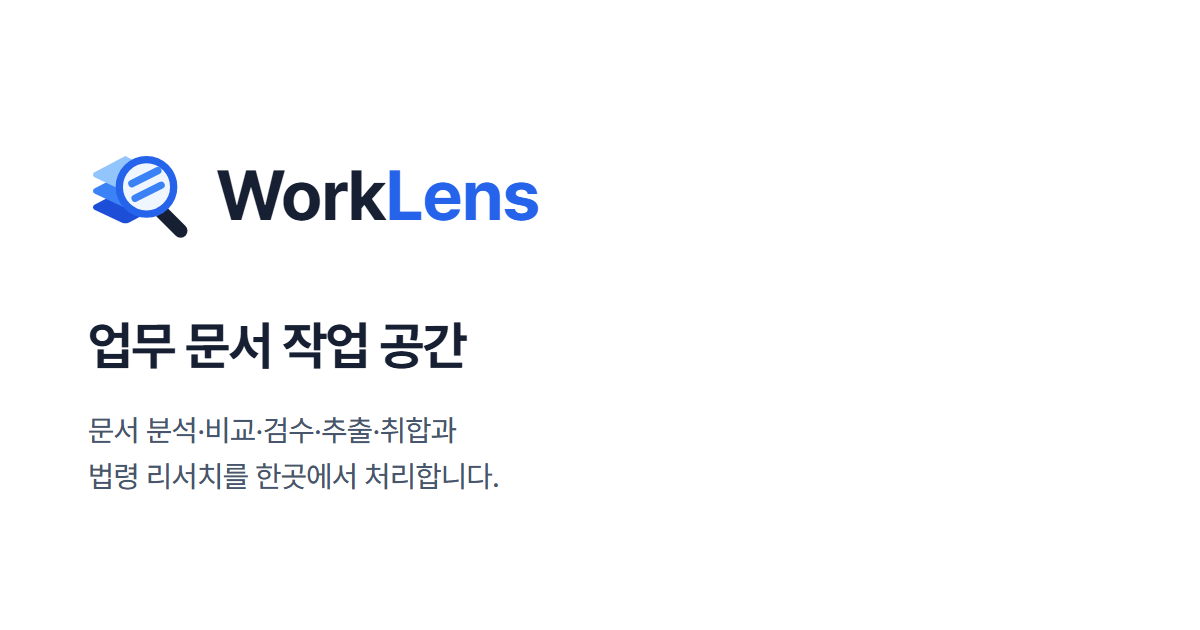
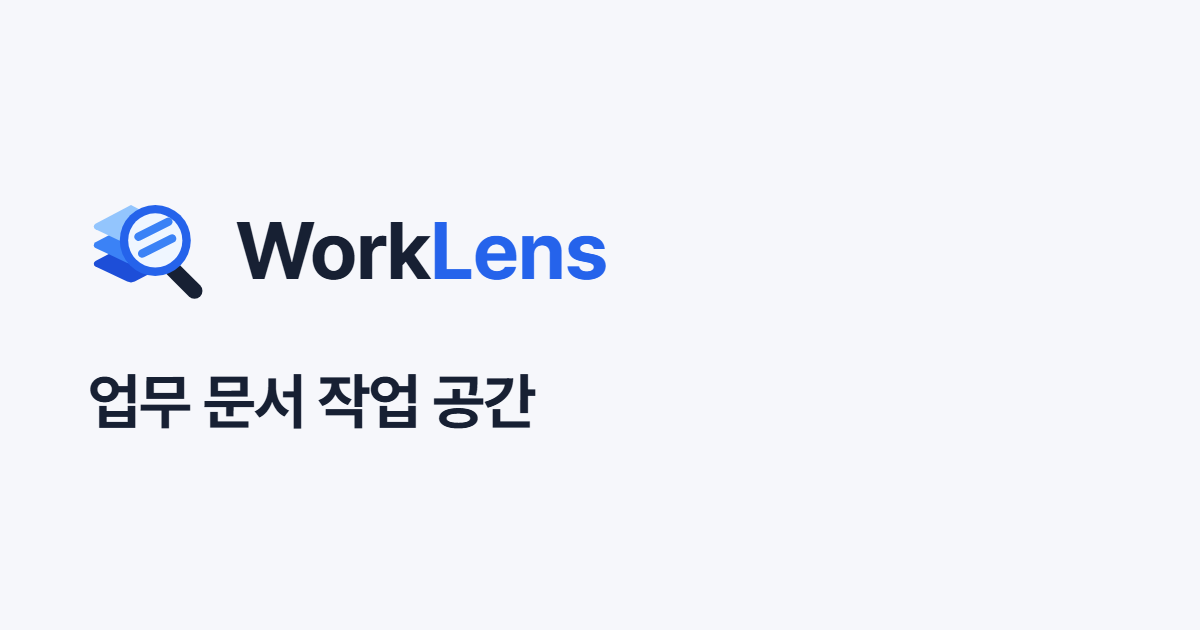
Refine shared OG composition and analysis guide navigation hierarchy

Changed region(s): [[0.0617, 0.5127, 0.4625, 0.7841], [0.0617, 0.2413, 0.5242, 0.4825]]

diff --git a/scripts/generate-brand-assets.ts b/scripts/generate-brand-assets.ts
@@ -12,7 +12,6 @@ const appDirectory = path.join(root, "src", "app");
 const fontDirectory = path.join(root, "public", "fonts", "pretendard", "woff2-dynamic-subset");
 const navy = "#172033";
 const blue = "#2563eb";
-const description = "문서 분석·비교·검수·추출·취합과 법령 리서치를 한곳에서 처리합니다.";
 
 // The JSX component remains the sole source of truth for the full-size symbol.
 function fullMark(tone: "default" | "light" = "default") {
@@ -121,20 +120,19 @@ try {
   }
   await Bun.write(path.join(appDirectory, "favicon.ico"), icoFromPngs(iconPngs));
 
-  const ogFonts = await embeddedFontFaces(`WorkLens업무 문서 작업 공간${description}`);
+  const ogFonts = await embeddedFontFaces("WorkLens업무 문서 작업 공간");
   const page = await browser.newPage({ viewport: { width: 1200, height: 630 }, deviceScaleFactor: 1 });
   const html = `<!DOCTYPE html><html lang="ko"><head><meta charset="utf-8"><style>
     ${ogFonts}
-    *{box-sizing:border-box}html,body{margin:0;width:1200px;height:630px;background:#fff;color:${navy}}
+    *{box-sizing:border-box}html,body{margin:0;width:1200px;height:630px;background:#f6f7fb;color:${navy}}
     body{font-family:"Pretendard Brand",sans-serif;-webkit-font-smoothing:antialiased}
     .sheet{position:relative;width:1200px;height:630px}
-    .brand{position:absolute;left:88px;top:143px;display:flex;align-items:center;gap:24px;height:104px}
+    .brand{position:absolute;left:88px;top:190px;display:flex;align-items:center;gap:24px;height:104px;transform:scale(1.15);transform-origin:top left}
     .brand svg{width:104px;height:104px;flex:none}
     .brand-name{font-size:70px;font-weight:700;letter-spacing:-1.05px;line-height:1}
     .brand-name span{color:${blue}}
-    h1{position:absolute;left:88px;top:313px;margin:0;font-size:52px;letter-spacing:-1.6px;line-height:1.25;font-weight:700}
-    .description{position:absolute;left:88px;top:408px;font-size:30px;line-height:1.52;font-weight:450;letter-spacing:-.4px;color:#48566d}
-  </style></head><body><main class="sheet"><div class="brand">${symbolSvg(full, 64)}<div class="brand-name">Work<span>Lens</span></div></div><h1>업무 문서 작업 공간</h1><div class="description">문서 분석·비교·검수·추출·취합과 <br>법령 리서치를 한곳에서 처리합니다.</div></main></body></html>`;
+    h1{position:absolute;left:88px;top:364px;margin:0;font-size:61px;letter-spacing:-1.6px;line-height:1.25;font-weight:700}
+  </style></head><body><main class="sheet"><div class="brand">${symbolSvg(full, 64)}<div class="brand-name">Work<span>Lens</span></div></div><h1>업무 문서 작업 공간</h1></main></body></html>`;
   await page.setContent(html);
   await page.evaluate(() => document.fonts.ready);
   await Bun.write(path.join(brandDirectory, "worklens-og-document-lens.png"), await page.screenshot({ type: "png" }));

diff --git a/src/components/ax/ax.css b/src/components/ax/ax.css
@@ -303,14 +303,12 @@
 .ax-prompt-actions .ax-copy-button[data-copied="true"] { background: color-mix(in srgb, var(--primary) 86%, var(--foreground)); border-color: transparent; }
 .ax-copy-error { flex: 1 1 100%; margin: 0; text-align: right; font-size: var(--font-size-xs); color: var(--destructive); }
 .ax-plan-toolbar { display: flex; align-items: center; gap: 12px; flex-wrap: wrap; margin-top: 16px; }
-.ax-plan-guide { min-width: 0; border-top: 1px solid var(--border); }
+.ax-plan-guide { min-width: 0; border-top: 1px solid var(--border); padding-top: 16px; }
 .ax-guide .ax-guide-item { border: 0; }
-.ax-guide .ax-guide-trigger { width: 100%; padding: 24px 0; align-items: center; border: 0; border-radius: 0; background: transparent; color: var(--foreground); font-size: var(--font-size-md); font-weight: var(--font-weight-semibold); }
-.ax-guide .ax-guide-trigger:hover, .ax-guide .ax-guide-trigger[data-panel-open] { background: transparent; }
+.ax-guide .ax-guide-trigger { flex: none; width: max-content; max-width: 100%; min-height: 44px; padding: 10px 14px; align-items: center; justify-content: center; gap: 10px; border: 1px solid var(--primary); border-radius: var(--radius-md); background: color-mix(in srgb, var(--primary) 6%, var(--card)); color: var(--primary); font-size: var(--font-size-sm); font-weight: var(--font-weight-semibold); box-shadow: none; }
+.ax-guide .ax-guide-trigger:hover, .ax-guide .ax-guide-trigger[data-panel-open]:hover { background: color-mix(in srgb, var(--primary) 12%, var(--card)); }
+.ax-guide .ax-guide-trigger:focus-visible { outline: 2px solid var(--primary); outline-offset: 2px; }
 .ax-guide .ax-guide-trigger svg { flex: none; }
-.ax-guide-action { margin-left: auto; color: var(--muted-foreground); font-size: var(--font-size-xs); font-weight: var(--font-weight-regular, 400); white-space: nowrap; }
-.ax-guide-action > span:last-child, .ax-guide-trigger[data-panel-open] .ax-guide-action > span:first-child { display: none; }
-.ax-guide-trigger[data-panel-open] .ax-guide-action > span:last-child { display: inline; }
 .ax-guide .ax-guide-panel { padding-bottom: 24px; }
 .ax-guide .ax-tutorial-intro { margin-top: 0; }
 .ax-cmd { font-family: ui-monospace, SFMono-Regular, Consolas, monospace; font-size: 0.9em; white-space: pre-wrap; overflow-wrap: anywhere; color: var(--foreground); background: color-mix(in srgb, var(--muted) 18%, var(--card)); border: 1px solid var(--border); border-radius: 4px; padding: 1px 5px; }

diff --git a/src/app/page.tsx b/src/app/page.tsx
@@ -2767,17 +2767,12 @@ function AnalyzeResults({ entries, enrichment, evidenceLimited, status, fileName
   );
   const hasContent = presentation.summary.length + coreItems.length + metrics.length + presentation.insights.length
     + presentation.concerns.length + mismatches.length > 0;
-  const hasWarnings = Boolean(status?.message || presentation.warnings.length);
+  const hasWarnings = Boolean(status?.message || presentation.warnings.length || (enrichment && evidenceLimited));
   const multipleFiles = entries.length > 1;
 
   return (
     <>
-    {/* Status, scope notice and result surface are three units: the white report card starts at the first result section. */}
-    {enrichment && evidenceLimited ? (
-      <StatusPanel className="notice analysis-scope-notice" variant="info"
-        title="분석 결과는 주요 내용을 중심으로 정리되며, 일부 세부 내용은 포함되지 않을 수 있습니다."
-        icon={<Info size={18} fill="currentColor" stroke="white" strokeWidth={2.2} />} />
-    ) : null}
+    {/* The white report card begins with the first result section; concrete limitations follow the results. */}
     <div className="analysis-report">
       {presentation.summary.length ? (
         <section className="analysis-report-section analysis-summary-section" aria-labelledby="analysis-summary-title">
@@ -2878,6 +2873,11 @@ function AnalyzeResults({ entries, enrichment, evidenceLimited, status, fileName
             </p>
           ) : null}
           {presentation.warnings.map((warning) => <p className="analysis-warning-line" key={warning.code}>{warning.message}</p>)}
+          {enrichment && evidenceLimited ? (
+            <p className="analysis-warning-line">
+              AI 요약·인사이트에는 최대 40개 항목·10,000자의 문서 근거가 전달됩니다. 이번 분석에서 일부 근거 후보는 AI 요약·인사이트에 전달되지 않았습니다.
+            </p>
+          ) : null}
         </section>
       ) : null}
     </div>

diff --git a/tests/e2e/analysis-matrix.spec.ts b/tests/e2e/analysis-matrix.spec.ts
@@ -193,6 +193,26 @@ test.describe("Analyze browser matrix", () => {
     await expect(drawer).toContainText("지표 · B23");
   });
 
+  test("VOLUME shortlisted evidence limit is disclosed at the report end", async ({ page }) => {
+    let evidenceItems = 0;
+    await page.route("**/api/ai", (route) => {
+      const body: unknown = route.request().postDataJSON();
+      if (!body || typeof body !== "object" || !("items" in body) || !Array.isArray(body.items)) {
+        throw new Error("Analyze request must contain shortlisted evidence.");
+      }
+      evidenceItems = body.items.length;
+      return route.fulfill({ status: 200, contentType: "application/json", body: JSON.stringify({ data: { kind: "claims", claims: [] } }) });
+    });
+    const rows: (string | number)[][] = [["항목", "값"], ...Array.from({ length: 48 }, (_, index) => [`지표 ${index + 1}`, `${(index + 1) * 1250}원`])];
+    await page.goto("/");
+    await upload(page, [{ name: "월간 지표.xlsx", bytes: await createXlsx({ 지표: rows }), mime: MIME.xlsx }]);
+    const panel = await analyze(page);
+    expect(evidenceItems).toBe(40);
+    await expect(panel.locator(".analysis-metric-table tbody tr")).toHaveCount(48);
+    await expect(panel.locator(".analysis-warning-section")).toBeVisible();
+    await expect(panel.locator(".analysis-report-section").last()).toHaveClass(/analysis-warning-section/u);
+  });
+
   for (const failure of [
     { name: "429 rate limit", fulfill: { status: 429, body: { error: { code: "AI_RATE_LIMITED" } } }, detail: "사용 한도" },
     { name: "500 provider error", fulfill: { status: 500, body: { error: { code: "AI_PROVIDER_UNAVAILABLE" } } }, detail: "AI 서비스 일시 오류" },

diff --git a/src/app/workspace-shell.css b/src/app/workspace-shell.css
@@ -5,7 +5,7 @@
 /* The HELP destinations sit at the foot of the rail, as in the reference layout. */
 .workspace-sidebar .workspace-navigation section:last-of-type { margin-top: auto; padding-top: 10px; border-top: 1px solid var(--line-soft); }
 .workspace-navigation section + section { margin-top: 14px; }
-.workspace-navigation h2 { color: #4b6fa8; font-size: 11px; font-weight: 600; letter-spacing: calc(var(--tracking-label) + .01em); margin: 8px 10px; }
+.workspace-navigation h2 { color: #4b6fa8; font-size: 12px; font-weight: 600; letter-spacing: .04em; margin: 8px 10px; }
 .workspace-navigation ul { list-style: none; margin: 0; padding: 0; display: grid; gap: 3px; }
 .workspace-nav-item { width: 100%; justify-content: flex-start; gap: 10px; color: #374151; height: 40px; min-height: 40px; padding-inline: 12px; font-size: 14px; font-weight: 500; border-radius: 8px; }
 .workspace-nav-item > svg { width: 18px; height: 18px; margin-inline: 0; opacity: 1; }

diff --git a/src/app/globals.css b/src/app/globals.css
@@ -5135,7 +5135,7 @@ body {
   padding-left: 0;
 }
 
-/* The analysis panel is flat: status and the scope notice sit on the canvas, the report is the white surface. */
+/* The analysis panel is flat: status sits on the canvas, and the report is the white surface. */
 .workspace > .analysis-results-panel > .panel-heading {
   padding: 0 0 var(--space-2);
   border-bottom: 0;
@@ -5145,11 +5145,6 @@ body {
 /* The lone status ends on the report's right edge at every width (narrow screens otherwise space-between it to the left). */
 .workspace > .analysis-results-panel > .panel-heading .result-heading-meta {
   justify-content: flex-end;
-}
-
-/* Beats the shared alert's 12px top margin; the panel heading already separates status from the notice. */
-.workspace > .analysis-results-panel > div.status-panel.analysis-scope-notice {
-  margin: 0 0 var(--space-3);
 }
 
 .workspace > .analysis-results-panel > .analysis-report {

diff --git a/src/components/ax/AxReport.tsx b/src/components/ax/AxReport.tsx
@@ -320,7 +320,6 @@ export function AxPlanSection({ diagnosis, taskName, taskContext, busy, onGenera
         <AccordionItem value="setup" className="ax-guide-item">
           <AccordionTrigger className="ax-guide-trigger" aria-label="설치·시작 가이드">
             <span className="inline-flex items-center gap-2"><Terminal aria-hidden="true" className="size-4" />설치·시작 가이드</span>
-            <span className="ax-guide-action" aria-hidden="true"><span>펼치기</span><span>접기</span></span>
           </AccordionTrigger>
           <AccordionPanel className="ax-guide-panel">
             <AxSetupGuide tool={activeTool} instructionsId={`${instructionsId}-section`} onGoToInstructions={goToInstructions} />

diff --git a/src/app/layout.tsx b/src/app/layout.tsx
@@ -6,7 +6,7 @@ import "./workspace-shell.css";
 const origin = new URL(process.env.WORKLENS_ORIGIN ?? "https://worklens.puleun58.workers.dev");
 const title = "WorkLens | 업무 문서 작업 공간";
 const description = "문서 분석·비교·검수·추출·취합과 법령 리서치를 한곳에서 처리합니다.";
-const shareImage = "/brand/worklens-og-document-lens.png";
+const shareImage = "/brand/worklens-og-document-lens.png?v=2";
 const shareImageAlt = "WorkLens 문서 레이어와 돋보기 로고 | 업무 문서 작업 공간";
 
 export const metadata: Metadata = {

diff --git a/tests/e2e/analysis.spec.ts b/tests/e2e/analysis.spec.ts
@@ -123,6 +123,7 @@ test("analyzes generated regulation and workbook within one aligned result surfa
   await expect(panel.getByRole("table").getByRole("columnheader", { name: "근거" })).toBeVisible();
   await expect(panel.getByRole("table").getByRole("rowheader", { name: "총예산" })).toBeVisible();
   await expect(panel.locator(".analysis-report .status-panel")).toHaveCount(0);
+  await expect(panel.locator(".analysis-warning-section")).toHaveCount(0);
   await expect(panel.locator(".analysis-report .panel")).toHaveCount(0);
   expect(requests).toBe(1);
 
